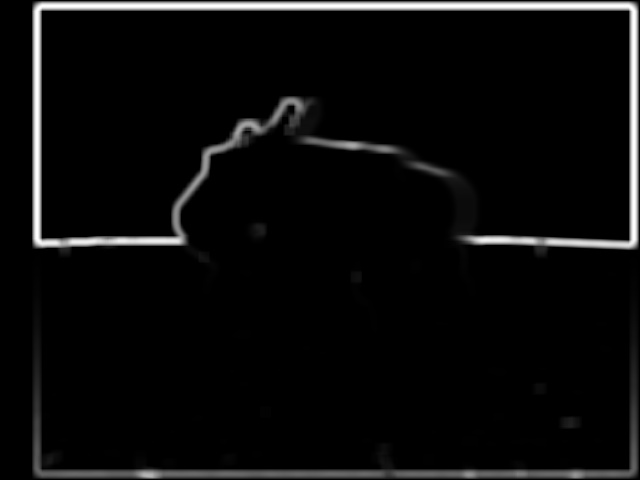
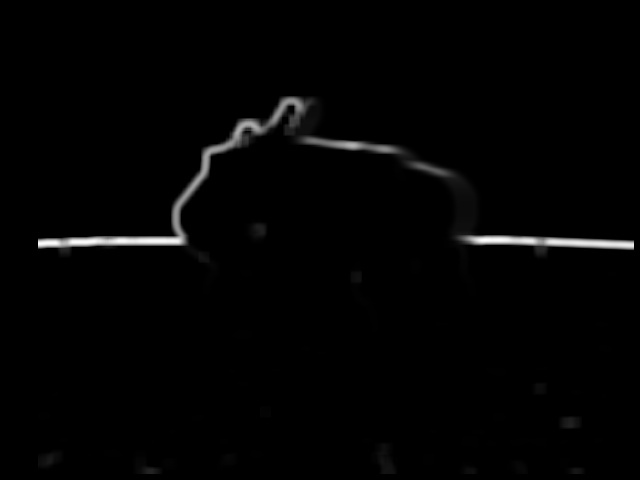
ubuntu: wls process reimplemented with steps

Changed region(s): [[0.0312, 0.0, 1.0, 0.5312], [0.0312, 0.75, 1.0, 1.0]]

diff --git a/ubuntu/image_processing.py b/ubuntu/image_processing.py
@@ -7,20 +7,39 @@ l_disp = cv2.imread("left_disp.jpg")
 r_disp = cv2.imread("right_disp.jpg")
 
 numDisparities = 32
+blockSize = 13
+
 cv2.normalize(l_disp,  l_disp, 0, numDisparities-1, cv2.NORM_MINMAX)
 cv2.normalize(r_disp,  r_disp, 0, numDisparities-1, cv2.NORM_MINMAX)
 
 l_disp = l_disp[:,:,0].astype(np.float32)
 r_disp = r_disp[:,:,0].astype(np.float32)
 
+l_offs = int(numDisparities) + int(blockSize/2.)
+r_offs = t_offs = b_offs = int(blockSize/2.)
+
+l_disp_val = l_disp[t_offs:l_disp.shape[0]-b_offs,l_offs:l_disp.shape[1]-r_offs]
+r_disp_val =  l_disp[t_offs:r_disp.shape[0]-b_offs,l_offs:r_disp.shape[1]-r_offs]
+
+#valid_disp_ROI = cv2.rectangle(l_offs, t_offs, l_disp.shape[1]-l_offs-r_offs, l_disp.shape[0]-t_offs-b_offs)
+
 # compute variance maps
 rad = 5
 
-l_avg = cv2.boxFilter(l_disp, ddepth=cv2.CV_32F, ksize=(2*rad+1, 2*rad+1), normalize=True)
-r_avg = cv2.boxFilter(r_disp, ddepth=cv2.CV_32F, ksize=(2*rad+1, 2*rad+1), normalize=True)
+l_avg = np.zeros(l_disp.shape)
+r_avg = np.zeros(r_disp.shape)
 
-l_sq_avg = cv2.sqrBoxFilter(l_disp, ddepth=cv2.CV_32F, ksize=(2*rad+1, 2*rad+1), normalize=True)
-r_sq_avg = cv2.sqrBoxFilter(r_disp, ddepth=cv2.CV_32F, ksize=(2*rad+1, 2*rad+1), normalize=True)
+l_avg[t_offs:l_disp.shape[0]-b_offs,l_offs:l_disp.shape[1]-r_offs] = cv2.boxFilter(l_disp_val, ddepth=cv2.CV_32F, ksize=(2*rad+1, 2*rad+1), normalize=True)
+r_avg[t_offs:r_disp.shape[0]-b_offs,l_offs:r_disp.shape[1]-r_offs] = cv2.boxFilter(r_disp_val, ddepth=cv2.CV_32F, ksize=(2*rad+1, 2*rad+1), normalize=True)
+
+l_sq_avg = np.zeros(l_disp.shape)
+r_sq_avg = np.zeros(r_disp.shape)
+
+l_sq_avg[t_offs:l_disp.shape[0]-b_offs,l_offs:l_disp.shape[1]-r_offs] = cv2.sqrBoxFilter(l_disp_val, ddepth=cv2.CV_32F, ksize=(2*rad+1, 2*rad+1), normalize=True)
+r_sq_avg[t_offs:r_disp.shape[0]-b_offs,l_offs:r_disp.shape[1]-r_offs] = cv2.sqrBoxFilter(r_disp_val, ddepth=cv2.CV_32F, ksize=(2*rad+1, 2*rad+1), normalize=True)
+
+l_var = np.zeros(l_disp.shape)
+r_var = np.zeros(r_disp.shape)
 
 l_var = l_sq_avg - np.multiply(l_avg, l_avg)
 r_var = r_sq_avg - np.multiply(r_avg, r_avg)
@@ -32,22 +51,40 @@ l_conf = np.maximum(1.0 - roll_off*l_var, 0.)
 r_conf = np.maximum(1.0 - roll_off*r_var, 0.)
 
 # left right consistency
-lrc = np.zeros(l_conf.shape)
+lrc = np.zeros(l_disp.shape)
 thresh = 24
 
-for i in range(r_conf.shape[0]):
-    for j in range(l_conf.shape[1]):
-        rj = j - int(int(l_disp[i, j])>>4) # bitshift by 4, divides by powers of 2 (here: 2**4)
-        if rj >= 0 and rj < r_conf.shape[1]:
-            disp = abs(l_disp[i, j] + r_disp[i, rj])
+l_offs_right = l_disp.shape[1] - (l_offs + l_disp.shape[1]-r_offs)
+t_offs_right = t_offs
+
+for i in range(t_offs, l_disp.shape[0]-b_offs):
+    for j in range(l_offs, l_disp.shape[1]-r_offs):
+        rj = j - int(int(l_disp[i, j])) # bitshift by 4, divides by powers of 2 (here: 2**4)
+        if rj >= l_offs_right and rj < l_disp.shape[1] - -l_offs - r_offs:
+            disp = abs(l_disp[i, j] - r_disp[i, rj])
             if disp < thresh:
                 lrc[i, j] = min(l_conf[i, j], r_conf[i, rj])
             else:
                 lrc[i, j] = 0.
 
+lrc *= 255.
+
 # disp multiply conf
 disp_mul_conf = np.multiply(l_disp, lrc)
-        
+
+# wls
+l_gra = cv2.imread("gra_left.jpg")
+l_gra = l_gra[:,:,0]
+
+disp_mul_conf_filtered = np.zeros(l_disp.shape)
+lrc_filtered = np.zeros(l_disp.shape)
+
+wls = cv2.ximgproc.createFastGlobalSmootherFilter(l_gra[t_offs:l_disp.shape[0]-b_offs,l_offs:l_disp.shape[1]-r_offs], 1.e4, 1.)
+disp_mul_conf_filtered[t_offs:l_disp.shape[0]-b_offs,l_offs:l_disp.shape[1]-r_offs] = wls.filter(disp_mul_conf[t_offs:l_disp.shape[0]-b_offs,l_offs:l_disp.shape[1]-r_offs].astype(np.float32))
+lrc_filtered[t_offs:l_disp.shape[0]-b_offs,l_offs:l_disp.shape[1]-r_offs] = wls.filter(lrc[t_offs:l_disp.shape[0]-b_offs,l_offs:l_disp.shape[1]-r_offs].astype(np.float32))
+
+wls_filtered = np.multiply(disp_mul_conf_filtered, 1./(lrc_filtered+1.e-43))
+
 # normalize
 cv2.normalize(l_avg,  l_avg, 0, 255, cv2.NORM_MINMAX)
 cv2.normalize(r_avg,  r_avg, 0, 255, cv2.NORM_MINMAX)
@@ -59,6 +96,7 @@ cv2.normalize(l_conf,  l_conf, 0, 255, cv2.NORM_MINMAX)
 cv2.normalize(r_conf,  r_conf, 0, 255, cv2.NORM_MINMAX)
 cv2.normalize(lrc,  lrc, 0, 255, cv2.NORM_MINMAX)
 cv2.normalize(disp_mul_conf, disp_mul_conf, 0, 255, cv2.NORM_MINMAX)
+cv2.normalize(wls_filtered,  wls_filtered, 0, 255, cv2.NORM_MINMAX)
 
 # save
 cv2.imwrite("l_avg.jpg", l_avg)
@@ -71,4 +109,5 @@ cv2.imwrite("l_conf.jpg", l_conf)
 cv2.imwrite("r_conf.jpg", r_conf)
 cv2.imwrite("lrc.jpg", lrc)
 cv2.imwrite("disp_mul_conf.jpg", disp_mul_conf)
+cv2.imwrite("wls_filtered.jpg", wls_filtered)
 
